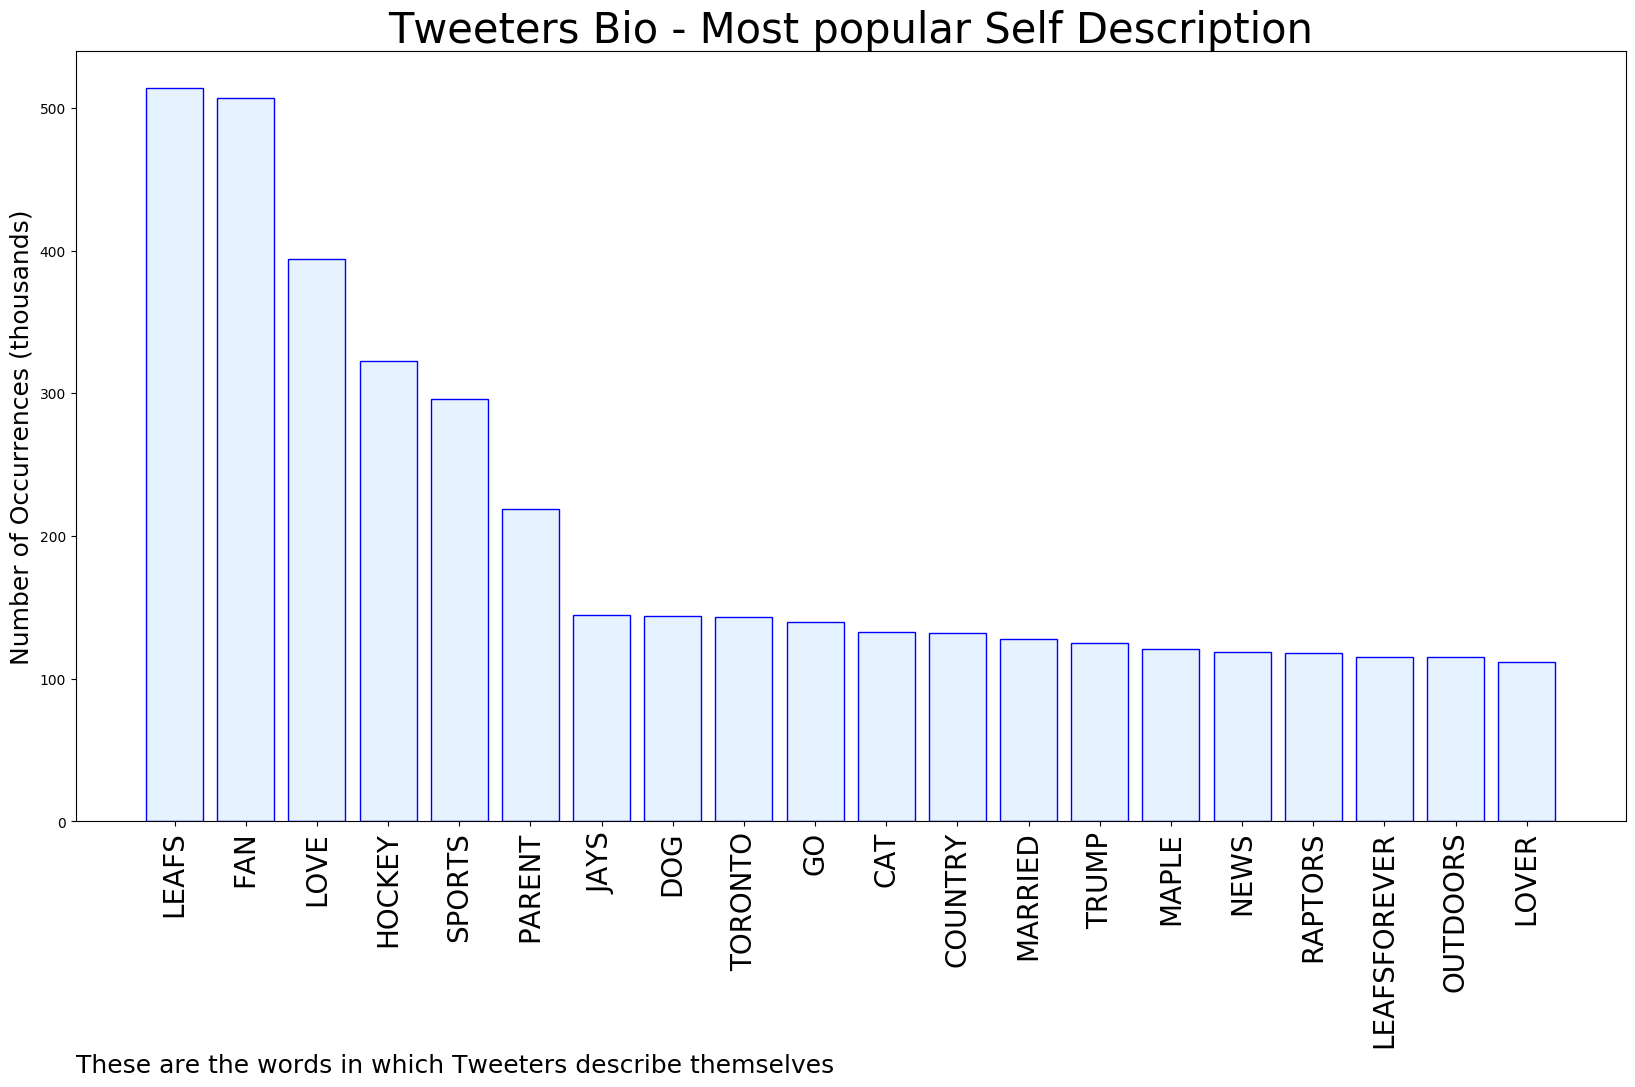
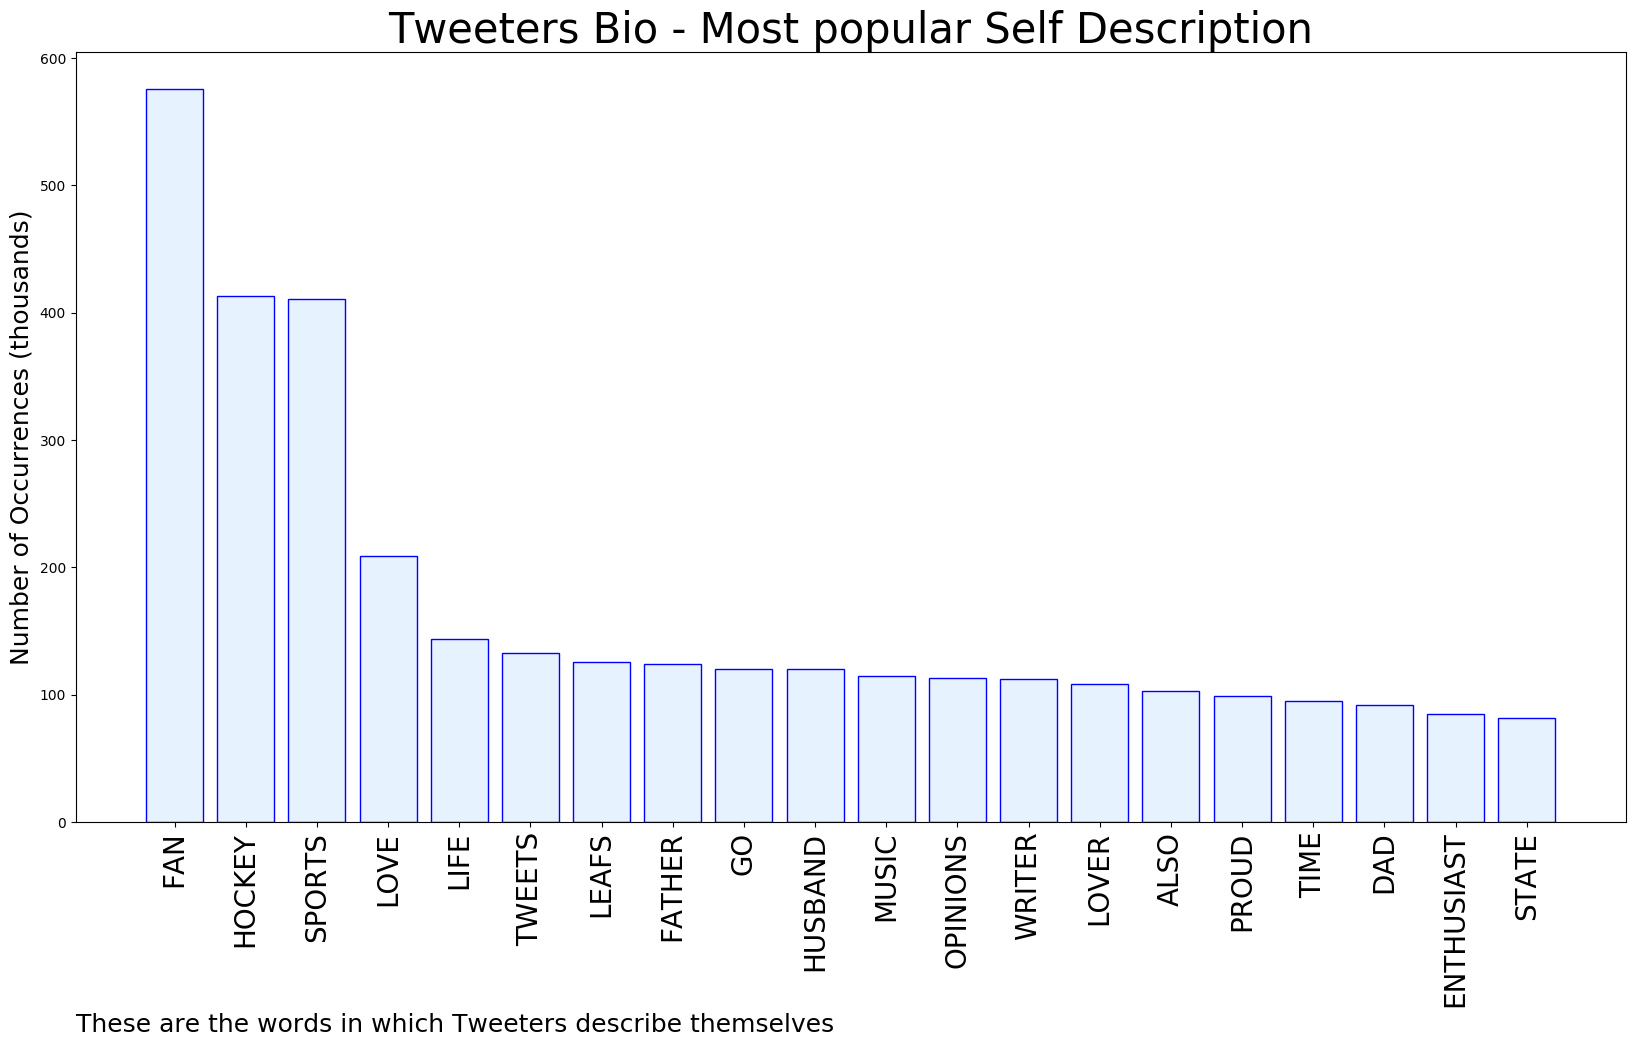
Updating with latest report

diff --git a/README.md b/README.md
@@ -1,5 +1,5 @@
 # MURCHIE85 TWITTER PROCESSING 
-&#x1F34E; **TOPIC = "Clifford"**
+&#x1F34E; **TOPIC = "Ayers"**
 
 ## AUTOMATED RESEARCH SUMMARY
 
@@ -15,20 +15,30 @@
 
 |                **Sample-Tweets**        |
 | :-------------: |
-| <div class="alert alert-block alert-warning">Says a Leafs fan. Naturally.Those who know Clifford better KNOW it was intentional. https://t.co/tSK728RVzP</div> <div class="alert alert-block alert-success">RT @CardiacCane: Clifford gets a 5 minute major for charging#LetsGoCanes #CARvsTOR</div> <div class="alert alert-block alert-info">We sent F to London for the break- THANK YOU to @smwark and @lucythornett for hosting our oldest and @mckenziewark… https://t.co/eCDq3cszJf</div> |
-The most popular user is: **clifford_mbb**
-<div class="alert alert-block alert-danger"> RT @bts_bighit: [#방탄밤] [#방밤캠] ‘#ON' Kinetic Manifesto Film 단체 Focus ver.
-(https://t.co/HygA9U4gOq)</div>
+| <div class="alert alert-block alert-warning">@SNkylebukauskas @BizNasty2point0 Loved your interview post game with Ayers.    It was just perfect!</div> <div class="alert alert-block alert-success">@JeremyWGR @MapleLeafs If Jack Eichel couldn't carry Austin Matthews' skates, what did David Ayers just make Matthews carry!?</div> <div class="alert alert-block alert-info">RT @barstoolsports: David Ayers, the 42 year old zamboni driver emergency goalie and STONE WALL https://t.co/qfEtzwRM1W</div> |
+The most popular user is: **Virgini25568889**
+<div class="alert alert-block alert-danger"> RT @C_3C_3: Invited to Obamas White House:
+
+Soros
+Weinstein 
+Podesta
+BLM
+Jeremiah Wright
+Bill Ayers
+M. Moore
+Bob Creamer
+
+Does it all make…</div>
 
 ## RELATED METRICS<br>
 | Metric | Value |
 | ------------- | ------------- |
-| #1 Most tweeted to  | **odognine2** |
-| #2 Most tweeted to  | **BradyTrett** |
-| #3 Most tweeted to  | **Mickcliff** |
-| NewProfiles (less than 10 days) | 0.4%  |
-| Tweeters with < 10 followers  | 4.12%|
-| Tweeters with > 1000000 followers  | 0.0%  |
+| #1 Most tweeted to  | **barstoolsports** |
+| #2 Most tweeted to  | **Canes** |
+| #3 Most tweeted to  | **odognine2** |
+| NewProfiles (less than 10 days) | 0.28%  |
+| Tweeters with < 10 followers  | 3.3%|
+| Tweeters with > 1000000 followers  | 0.04%  |
 
 
 
@@ -37,31 +47,39 @@ The most popular user is: **clifford_mbb**
 
 | Popularity Rank  | Term |
 | ------------- | ------------- |
-| first  | **CLIFFORD**  |
-| second  | **MRAZEK**  |
-| third  | **KYLE** |
-| fourth  | **PUCK**  |
-| fifth  | **PENALTY**  |
+| first  | **AYERS**  |
+| second  | **DAVID**  |
+| third  | **ZAMBONI** |
+| fourth  | **GOALIE**  |
+| fifth  | **DRIVER**  |
 
 
 ## Twitter Bio Analysis![image](BIO.png)
 ### SENTIMENT ANALYSIS
 ![image](sentiment.png)
-VIEWS WERE : **SUBJECTIVE**  (20.0%) & **NEGATIVELY-SUBJECTIVE** (6.67%) **OBJECTIVE** (73.33%)
+VIEWS WERE : **SUBJECTIVE**  (33.33%) & **NEGATIVELY-SUBJECTIVE** (40.0%) **OBJECTIVE** (26.67%)
 
 ### TWEET SAMPLE 
 Random value picked from array: 
 
-<div class="alert alert-block alert-info">Says a Leafs fan. Naturally.
-
-Those who know Clifford better KNOW it was intentional. https://t.co/tSK728RVzP</div>
+<div class="alert alert-block alert-info">@SNkylebukauskas @BizNasty2point0 Loved your interview post game with Ayers.    It was just perfect!</div>
 
 ### MOST RETWEETED 
 
-The most retweeted user is: **clifford_mbb**
+The most retweeted user is: **Virgini25568889**
 
-<div class="alert alert-block alert-danger"> RT @bts_bighit: [#방탄밤] [#방밤캠] ‘#ON' Kinetic Manifesto Film 단체 Focus ver.
-(https://t.co/HygA9U4gOq)</div>
+<div class="alert alert-block alert-danger"> RT @C_3C_3: Invited to Obamas White House:
+
+Soros
+Weinstein 
+Podesta
+BLM
+Jeremiah Wright
+Bill Ayers
+M. Moore
+Bob Creamer
+
+Does it all make…</div>
 
 ### CONCLUSION & EXTERNAL ANALYSIS
 
